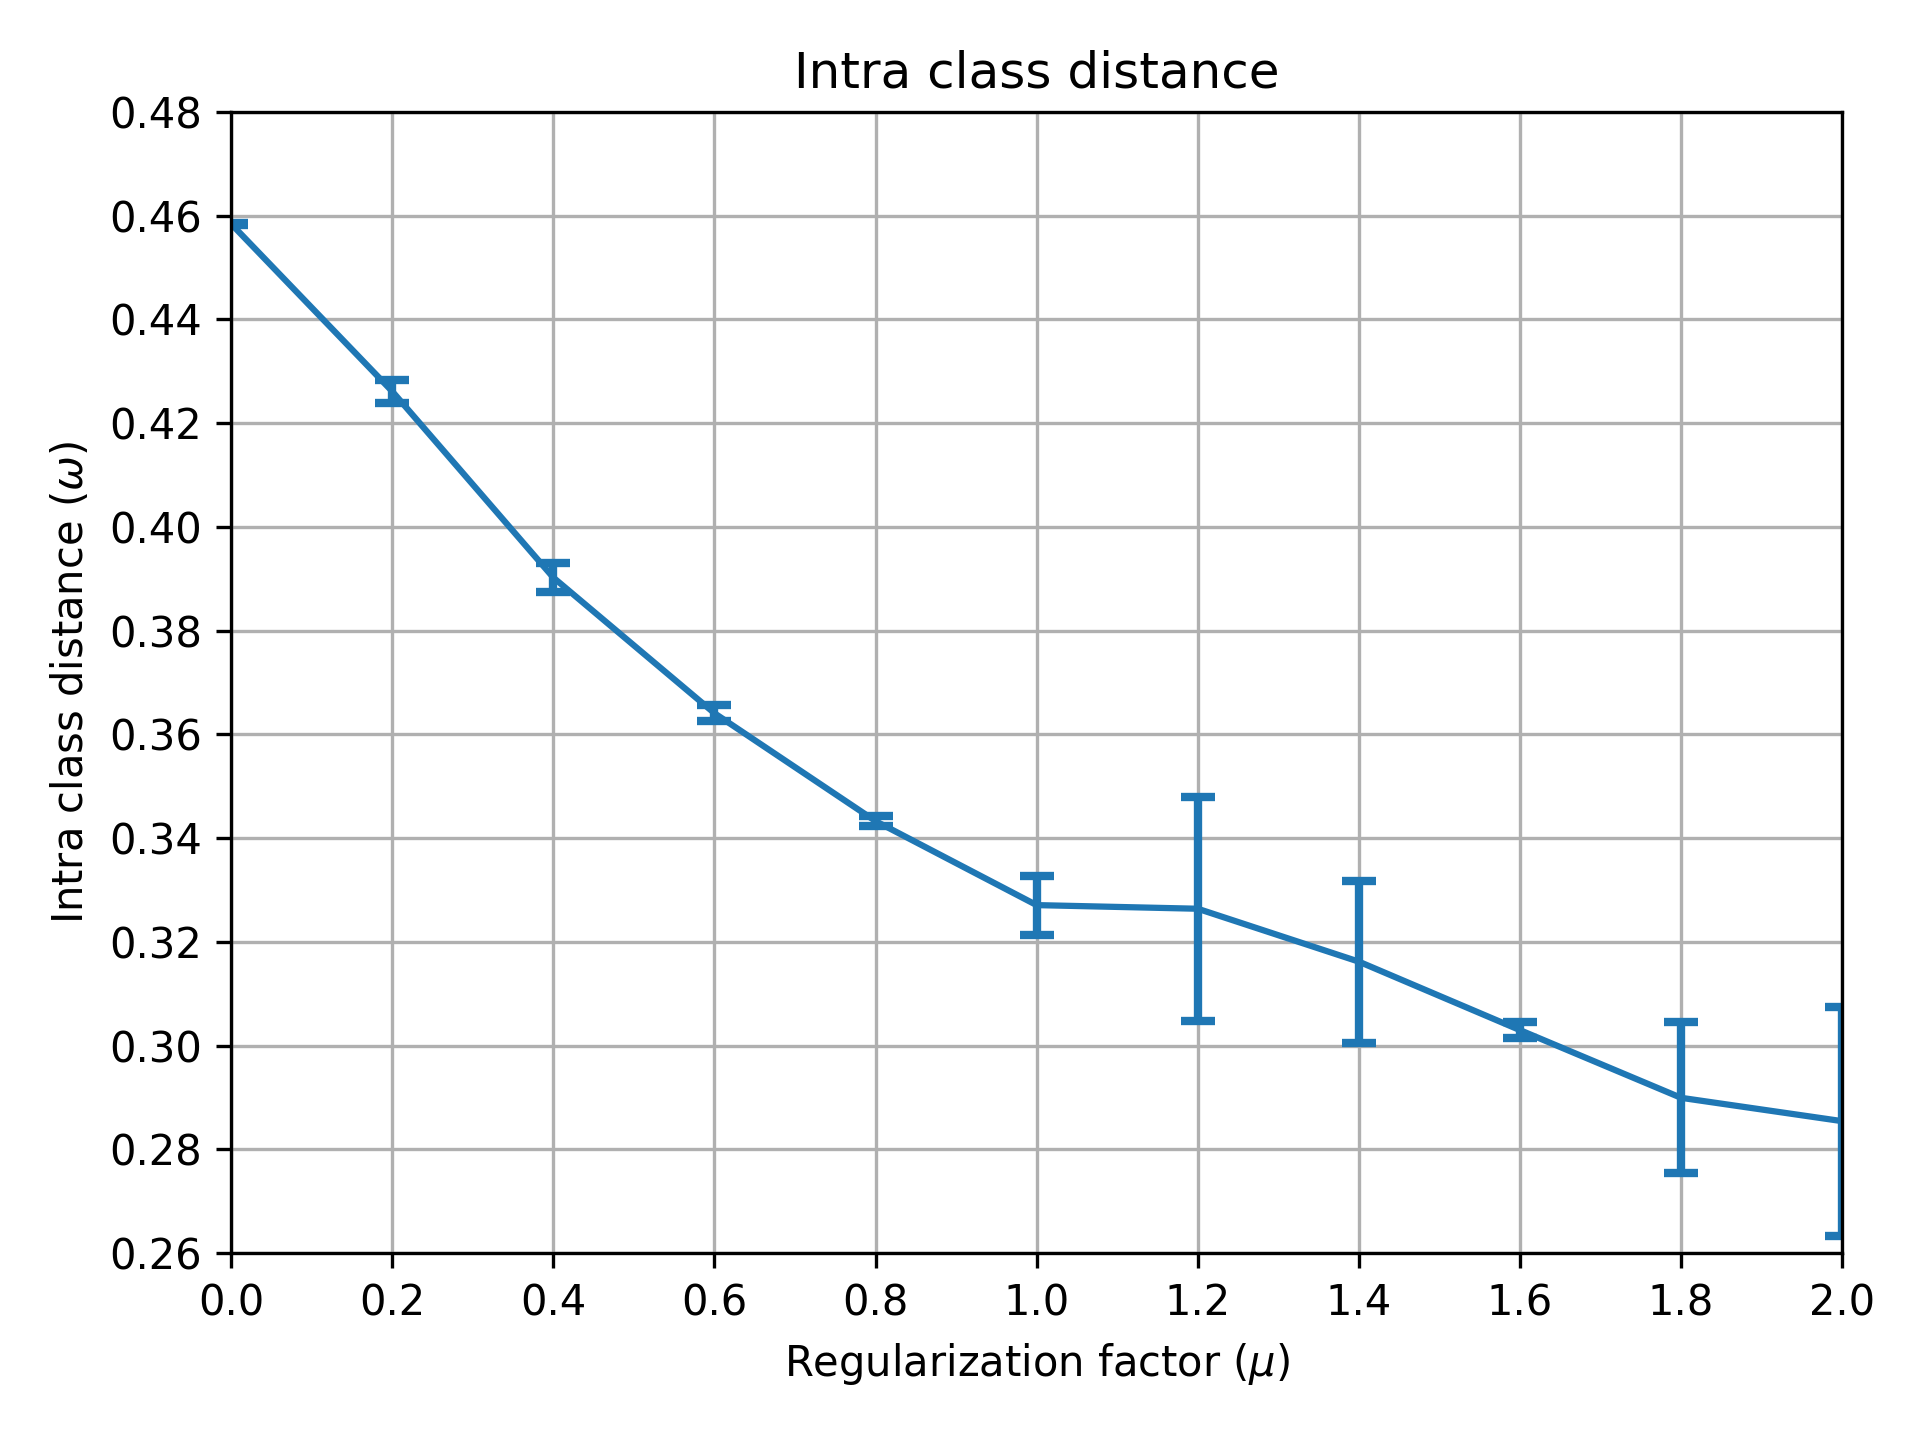
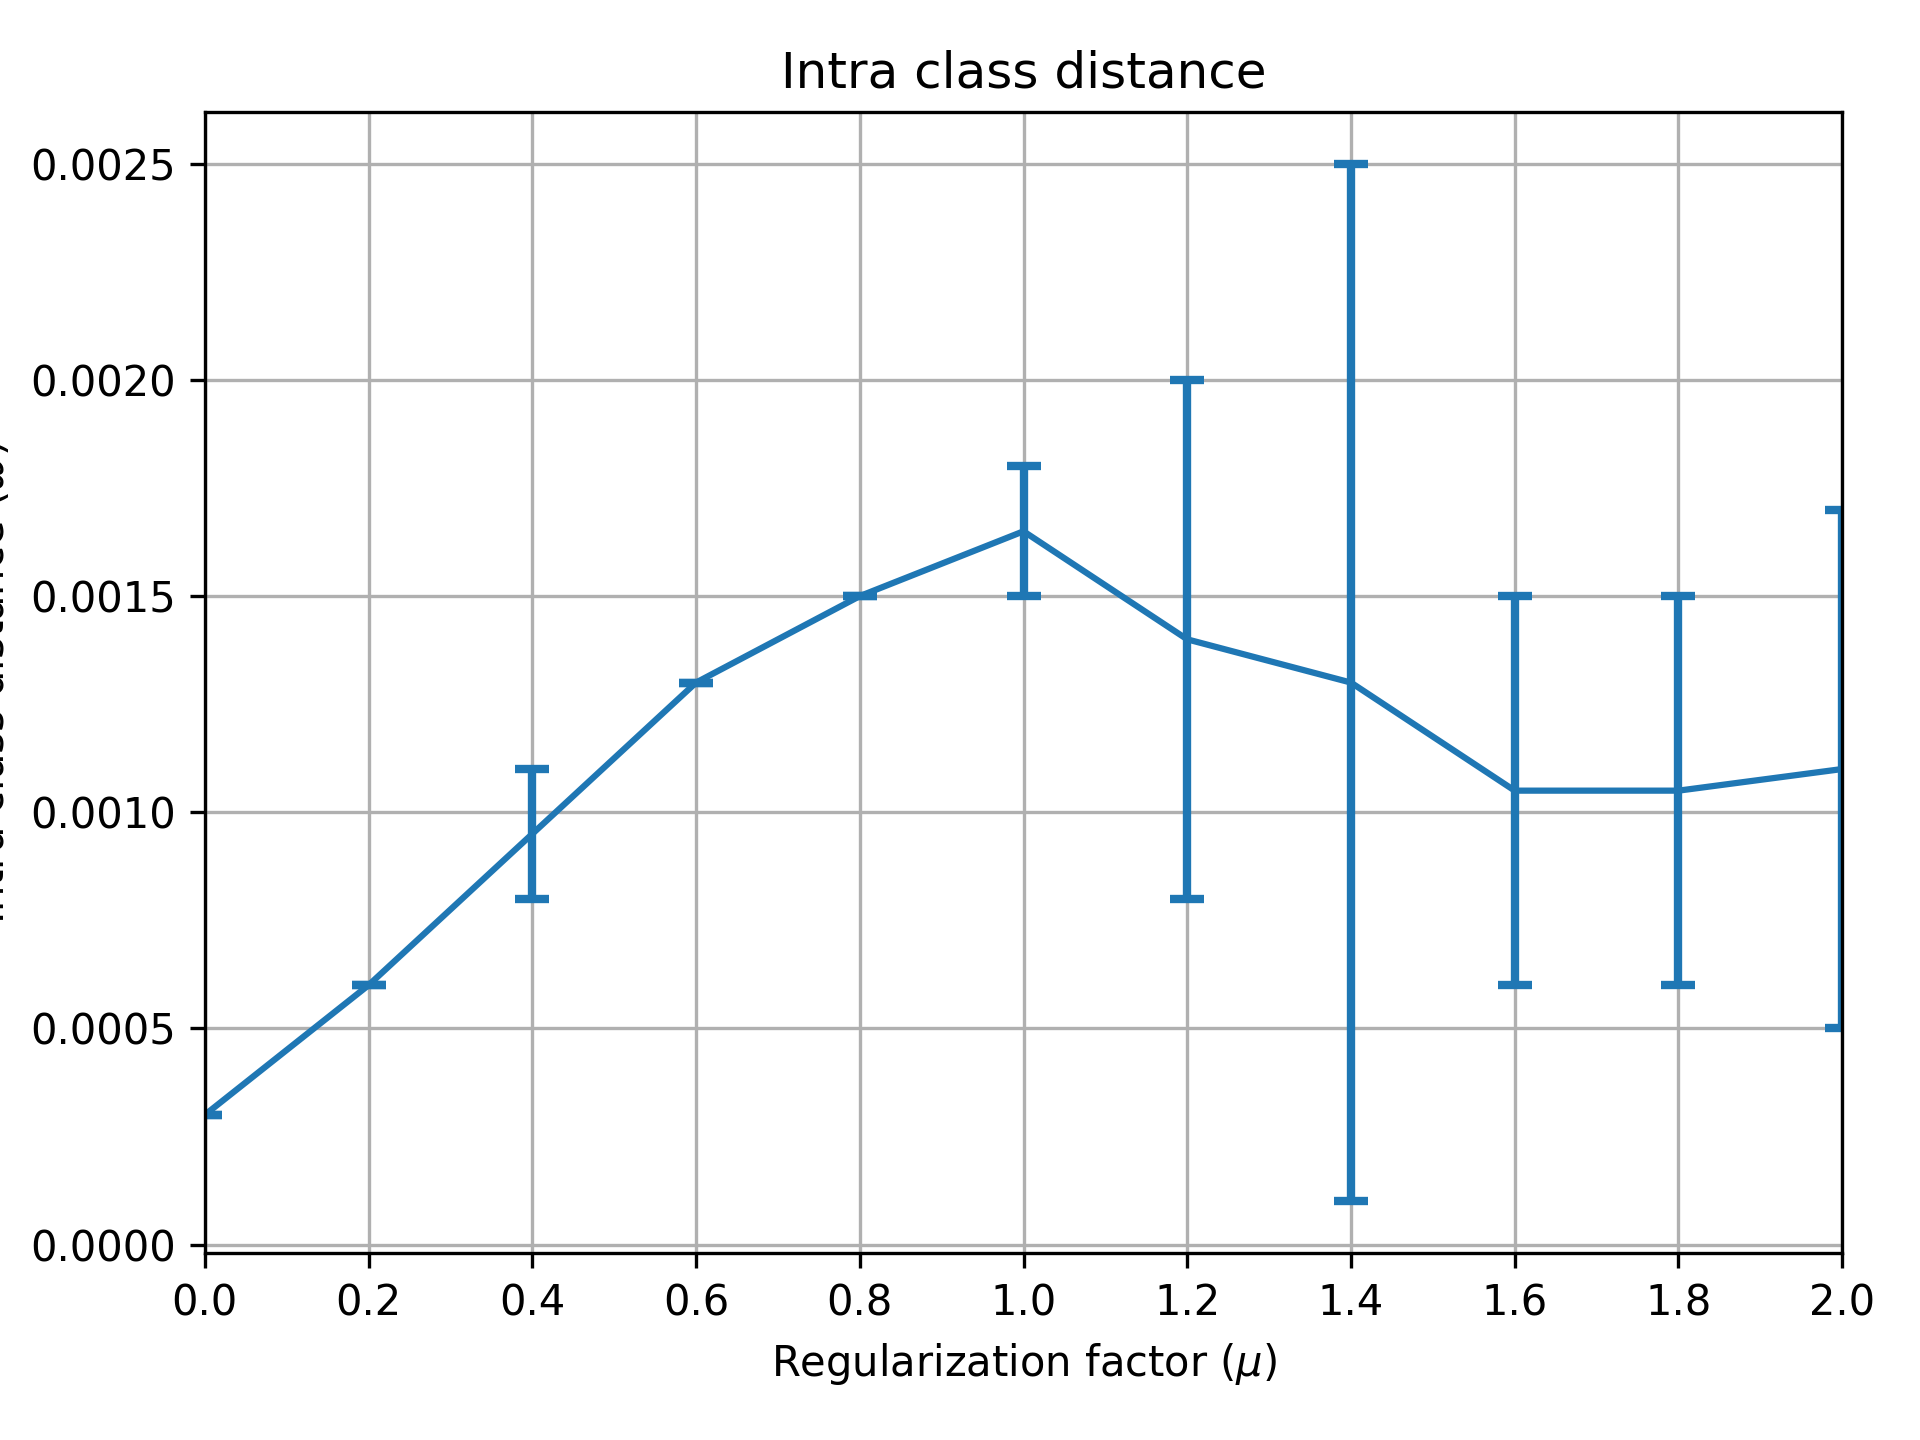
started implementing icd_saf

diff --git a/src/experiments/swipe_preg_on_mu.py b/src/experiments/swipe_preg_on_mu.py
@@ -18,6 +18,7 @@ from src.models.reg import make_preg_ce_ce
 
 from src.models.evaluate_model import acc
 from src.models.evaluate_model import icd_apolline_1
+from src.models.evaluate_model import icd_saf_0
 
 from src.visualization.visualize import gen_fig
 
@@ -30,7 +31,7 @@ data.reg_mask = torch.ones_like(data.train_mask, dtype=torch.bool)
 a_hat = compute_a_hat(data)
 
 metrics = []
-for seed in range(2):
+for seed in range(1):
     for mu in range(0, 21, 2):
         if mu == 0 and seed == 0:    
             print('-------------------------------------------------------------')
@@ -52,7 +53,8 @@ for seed in range(2):
         model = train_with_loss(model, data, loss_fn)
 
         train_acc, val_acc, test_acc = acc(model, data)
-        icd = icd_apolline_1(model, data)
+        # icd = icd_apolline_1(model, data)
+        icd = icd_saf_0(model, data)[2]
 
         metrics.append({
             'mu': mu, 

diff --git a/src/visualization/visualize.py b/src/visualization/visualize.py
@@ -32,9 +32,9 @@ def viz_swipe_preg_on_mu_icd():
         xlabel='Regularization factor ($\mu$)',
         ylabel='Intra class distance ($\omega$)',
         xlim=(0, 2),
-        ylim=(0.26, 0.48),
+        # ylim=(0.26, 0.48),
         xticks=np.linspace(0, 2, num=11),
-        yticks=np.linspace(0.26, 0.48, 12)
+        # yticks=np.linspace(0.26, 0.48, 12)
         )
     ax.grid()
     plt.tight_layout()
@@ -237,6 +237,8 @@ def viz_swipe_preg_on_mu_and_neurs_icd():
 
     # arr = np.nan_to_num(arr)
     fig, ax = plt.subplots()
+    mus = df[(df['seed'] == 0) & (df['hidden_channels'] == 1)]['mu']
+    hidden_channels = df[(df['seed'] == 0) & (df['mu'] == 0)]
     im = ax.pcolormesh(list(map(lambda l: 2*l, [0, 1, 2, 3, 4, 5, 6, 7, 8, 9, 10, 11, 12, 13, 14, 15, 16, 17, 18, 19, 20])), [1, 2, 4, 8, 16, 32, 64, 128, 256], arr, )
     ax.set_yscale('log')
     ax.set_yticks([1, 2, 4, 8, 16, 32, 64, 128, 256])

diff --git a/src/models/evaluate_model.py b/src/models/evaluate_model.py
@@ -89,3 +89,19 @@ def icd_apolline_1(model, data):
         #print(clk, ck, w)
 
     return (w/N).item()
+
+
+def icd_saf_0(model, data):
+    model.eval()
+    with torch.no_grad():
+        icds = []
+        for mask in [data.train_mask, data.val_mask, data.test_mask]:
+            Z = model(data)[mask]
+            icd_per_class = [] # intra class distances
+            for c in data.y.unique().numpy():
+                # s_k = Z[data.y[mask] == c]
+                s_k = torch.nn.Softmax(dim=0)(Z[data.y[mask] == c])
+                icd_per_class.append(s_k.var())
+            
+            icds.append(np.array(icd_per_class).mean())
+        return icds
